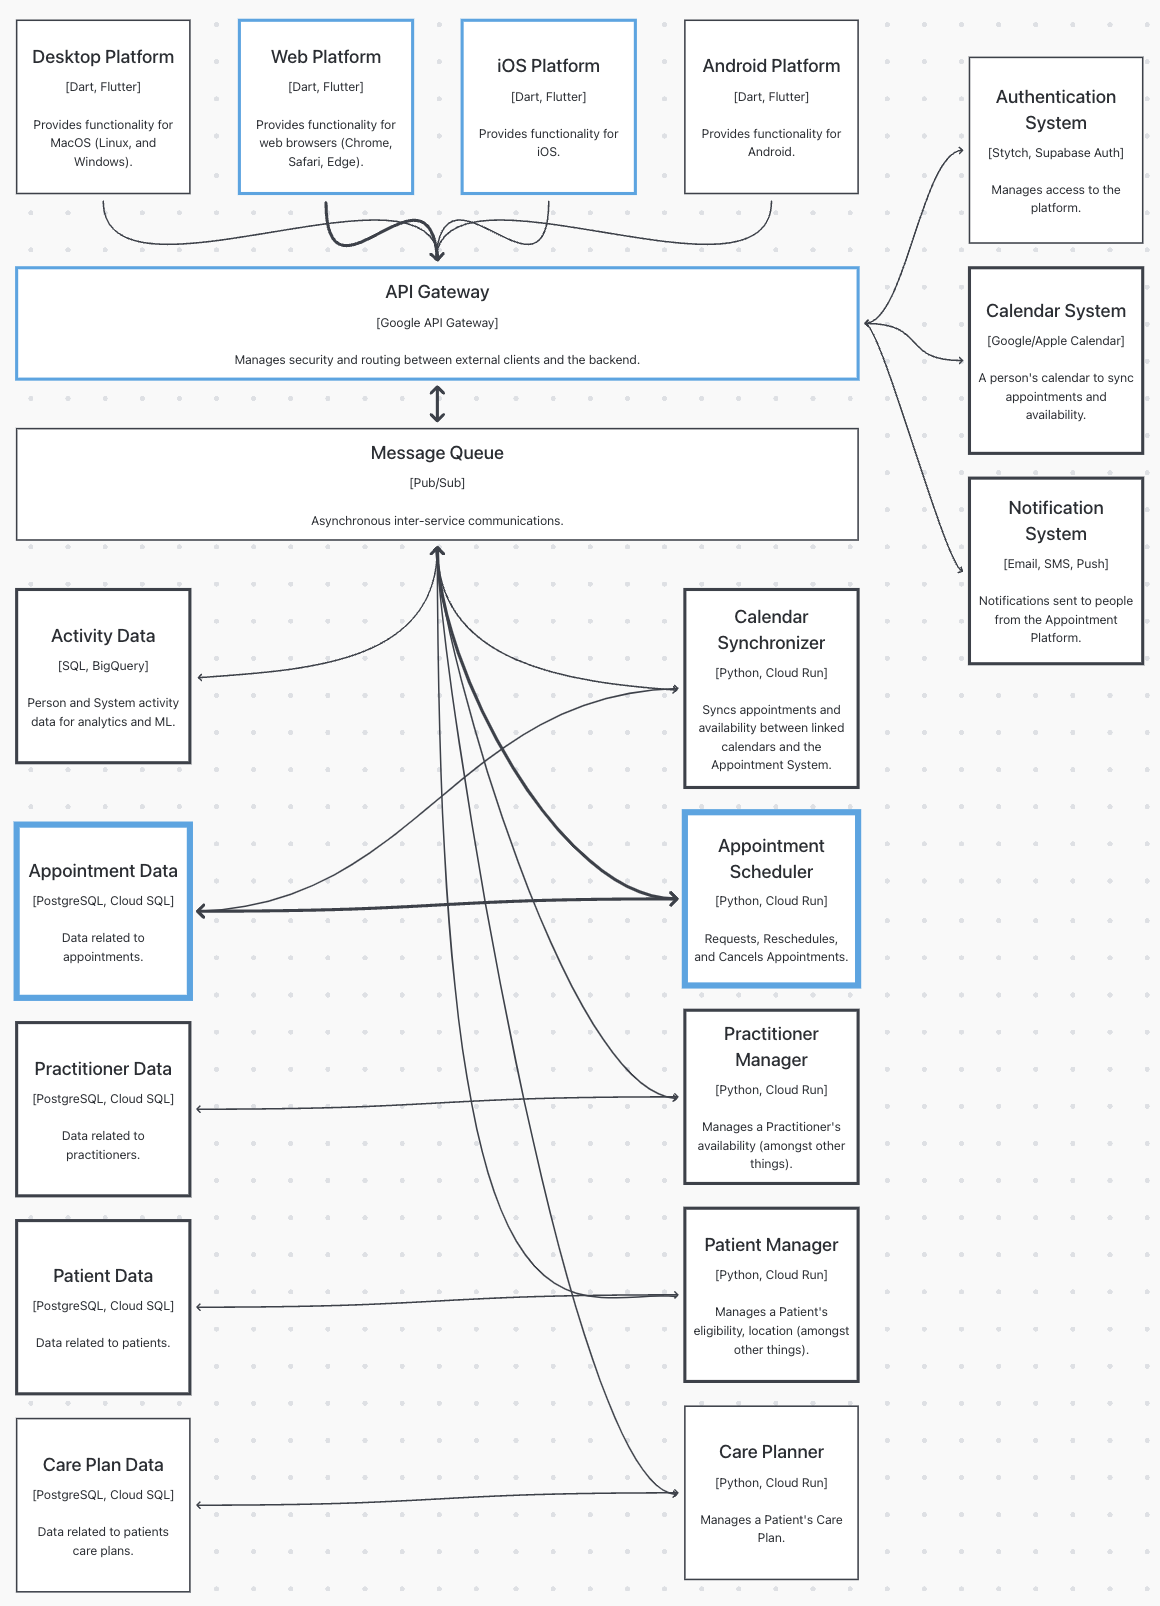
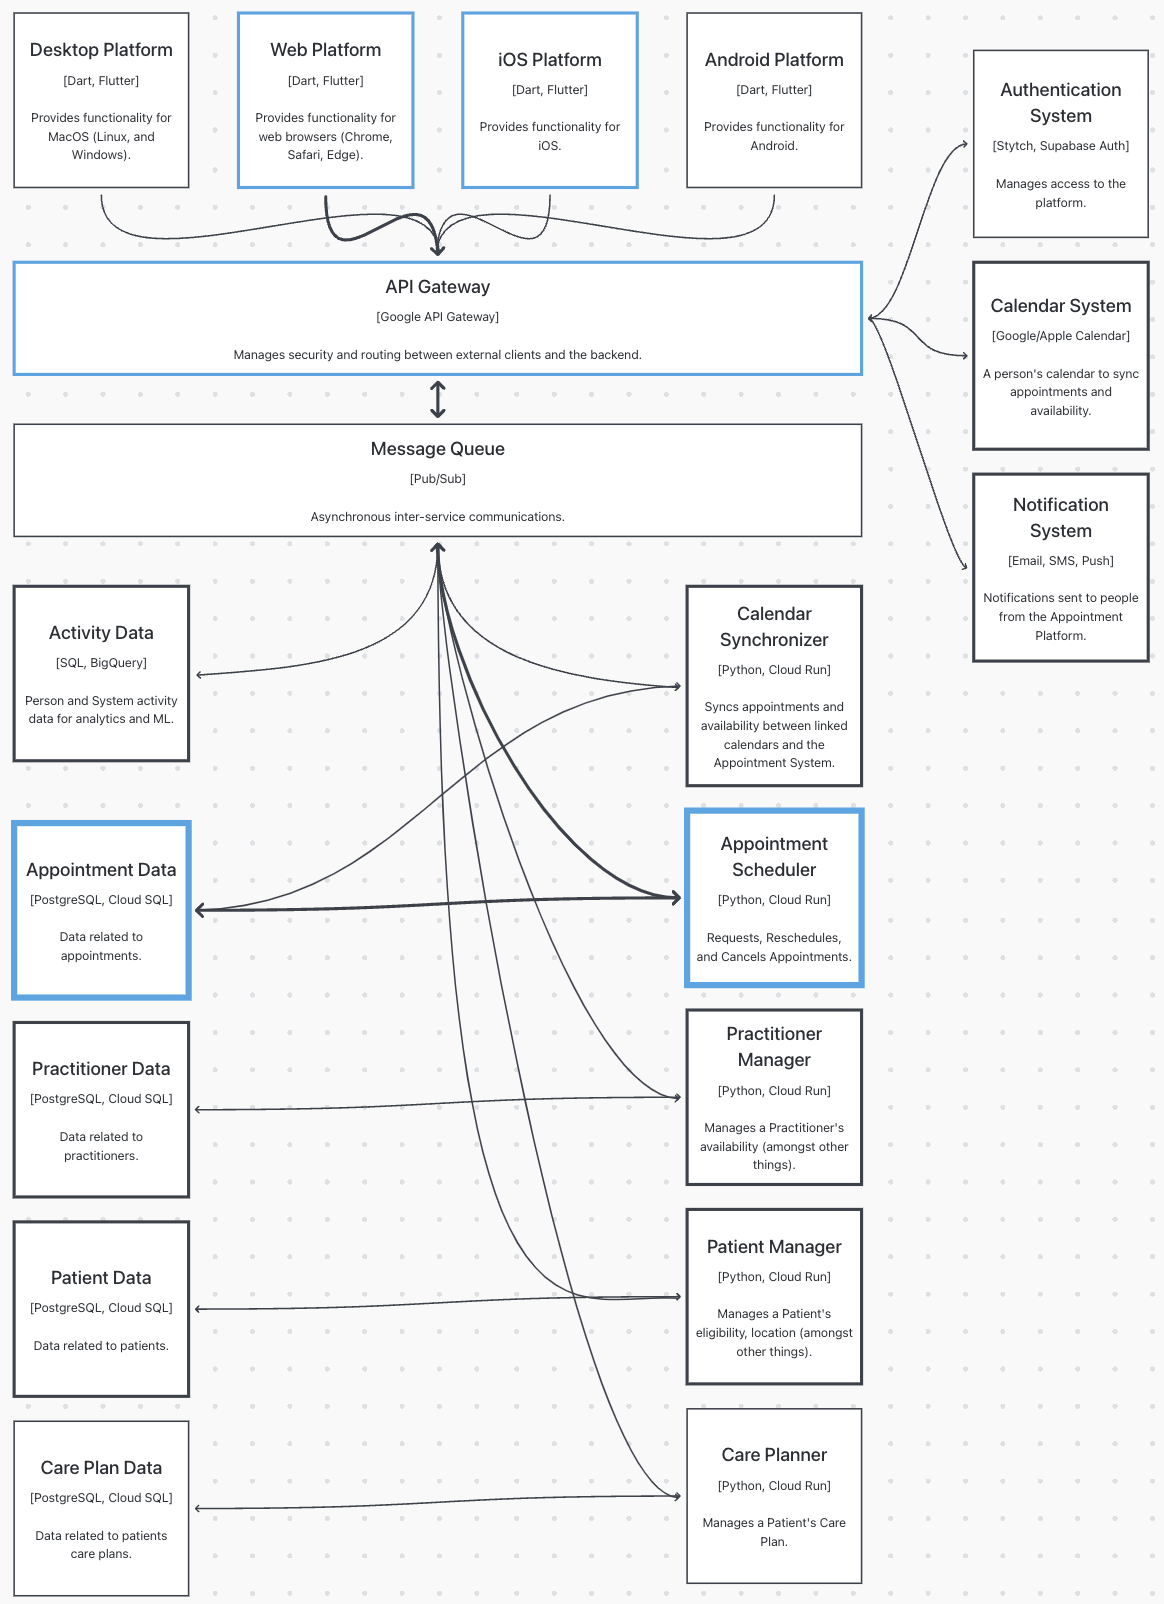
Refined the System Design page.

diff --git a/content/tutorials/how-to-build-an-ehr/system-design.md b/content/tutorials/how-to-build-an-ehr/system-design.md
@@ -8,45 +8,45 @@ Designing a system for an Electronic Health Record (EHR) involves several key co
 
 > **Objective**: Design the system architecture for **Appointment Scheduling** by producing the following artifacts:
 >
-> 1. [Appointment Scheduling: Context Diagram](#appointment-scheduling-context-diagram)
-> 1. [Appointment Scheduling: Platform Diagram](#appointment-scheduling-platform-diagram)
-> 1. [Appointment Scheduling: Component Diagram](#appointment-scheduling-component-diagram)
+> 1. [System Context Diagram](#system-context-diagram)
+> 1. [Platform Diagram](#platform-diagram)
+> 1. [Component Diagram](#component-diagram)
 
-Let's start with designing the [Appointment Scheduling: Context Diagram](#appointment-scheduling-context-diagram) before creating the [Appointment Scheduling: Context Diagram](#appointment-scheduling-context-diagram). This will help us identify and understand all key events, interactions, policies, and workflows, ensuring the system design accurately represents the requirements and relationships.
+Let's start with designing the [System Context Diagram](#system-context-diagram) before creating the [Platform Diagram](#platform-diagram). This will help us identify and understand all key events, interactions, policies, and workflows, ensuring the system design accurately represents the requirements and relationships.
 
-## Appointment Scheduling: Context Diagram
+## System Context Diagram
 
-> The Appointment System Context Diagram illustrates the interactions and data flows between the **Appointment System** and various other systems and users.
+> The EHR System Context Diagram illustrates the interactions and data flows between the **EHR System** and various other systems and users.
 
-The **Appointment System** is central to managing appointments between providers and patients, and it syncs with calendars to ensure availability and scheduling accuracy.
+The **EHR System** is central to managing appointments between providers and patients, and it syncs with calendars to ensure availability and scheduling accuracy.
 
 Practitioners and Patients authenticate through the Authentication System, which grants them access to the underlying systems.
 
-![Context Diagram](../context-diagram.png)
+![System Context Diagram](../system-context-diagram.png)
 
-The **Appointment System** integrates with the Calendar System (such as Google or Apple Calendar) to sync appointments and availability, ensuring that all schedules are up-to-date. Notifications about appointments are sent to users through the Notification System via email, SMS, or push notifications.
+The **EHR System** integrates with the Calendar System (such as Google or Apple Calendar) to sync appointments and availability, ensuring that all schedules are up-to-date. Notifications about appointments are sent to users through the Notification System via email, SMS, or push notifications.
 
-Additionally, the **Appointment System** interacts with the Billing System for financial transactions, the Registration System for new user sign-ups, and both the Practitioner Management System and Patient Management System for maintaining comprehensive profiles.
+Additionally, the **EHR System** interacts with the Billing System for financial transactions, the Registration System for new user sign-ups, and both the Practitioner Management System and Patient Management System for maintaining comprehensive profiles.
 
 Finally, it also connects with the Medical Records System to ensure that appointments are aligned with the patient's medical history and ongoing treatment plans.
 
-## Appointment Scheduling: Platform Diagram
+## Platform Diagram
 
-> One level lower, the Platform Diagram outlines the interactions and data flows between the **Appointment Platform** and various user interfaces, as well as supporting systems for availability/scheduling and notifications.
+> One level lower, the Platform Diagram outlines the interactions and data flows between the **EHR Platform** and various user interfaces, as well as supporting systems for availability/scheduling and notifications.
 
-Practitioners and patients access the **Appointment Platform** through multiple interfaces tailored to their devices: Desktop, Web, and Mobile. Each of these interfaces is built using Dart and Flutter, ensuring consistent functionality across all devices.
+Practitioners and patients access the **EHR Platform** through multiple interfaces tailored to their devices: Desktop, Web, and Mobile. Each of these interfaces is built using Dart and Flutter, ensuring consistent functionality across all devices.
 
 ![Platform Diagram](../platform-diagram.png)
 
-The core **Appointment Platform**, developed with Python, handles the core functionality for requesting, scheduling, and canceling appointments. It interfaces with the **Calendar System** (such as Google or Apple Calendar) to sync appointments and availability, ensuring that users' schedules are always up-to-date.
+The core **EHR Platform**, developed with Python, handles the core functionality for requesting, scheduling, and canceling appointments. It interfaces with the **Calendar System** (such as Google or Apple Calendar) to sync appointments and availability, ensuring that users' schedules are always up-to-date.
 
 Additionally, it connects with the Notification Platform to send out appointment-related notifications via email, SMS, or push notifications, keeping users informed about their appointments. This setup ensures a seamless and integrated experience across different devices and platforms for both practitioners and patients.
 
-If we take a closer look into the **Appointment Platform**, we can see the various components and services that the platform is comprised of, in the form of a [Appointment Scheduling: Component Diagram](#appointment-scheduling-component-diagram).
+If we take a closer look into the **EHR Platform**, we can see the various components and services that the platform is comprised of, in the form of a [Component Diagram](#component-diagram).
 
-## Appointment Scheduling: Component Diagram
+## Component Diagram
 
-> The Component Diagram highlights the various components in the **Appointment Platform**. It illustrates the interactions between various platforms, services, and data repositories.
+> The Component Diagram highlights the various components in the **EHR Platform**. It illustrates the interactions between various platforms, services, and data repositories.
 
 The system's frontend is composed of Desktop, Web, iOS, and Android platforms, all built using Dart and Flutter, which interface with the backend via an API Gateway.
 
